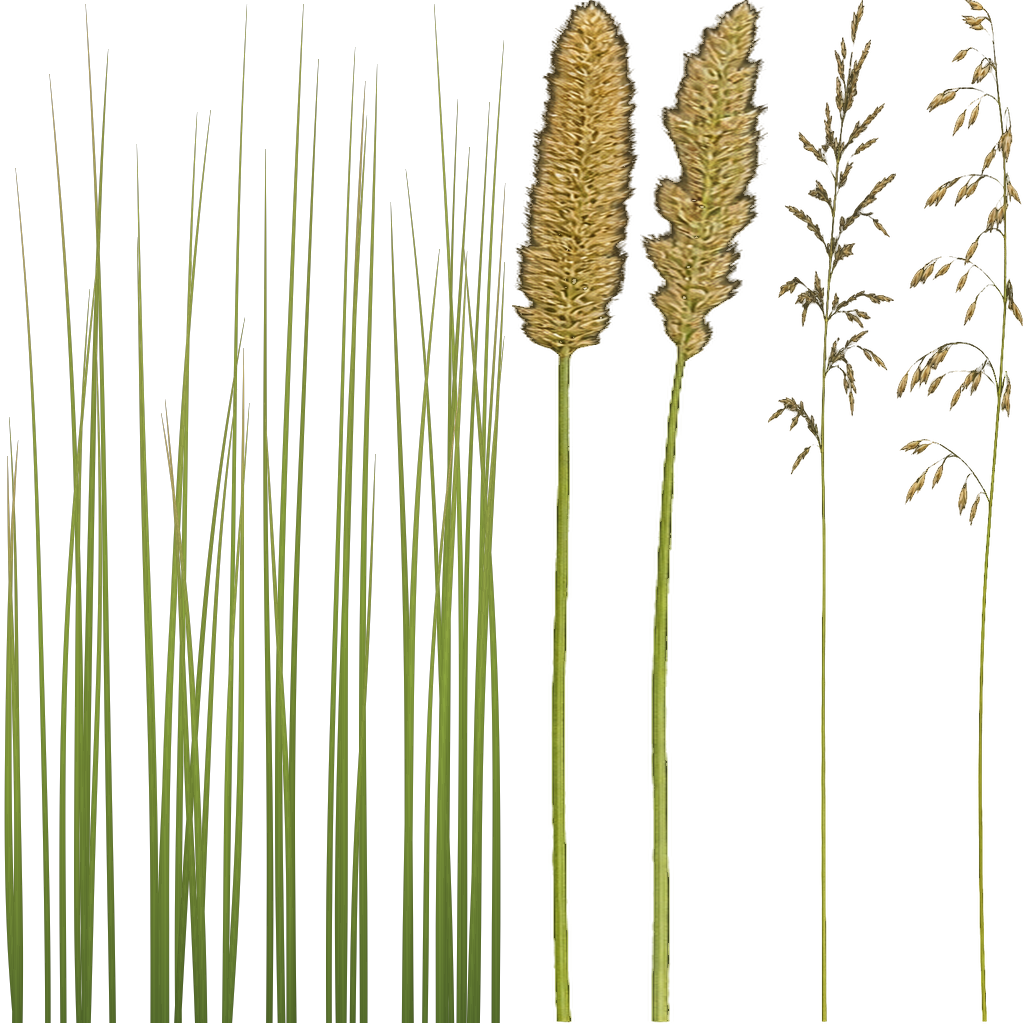
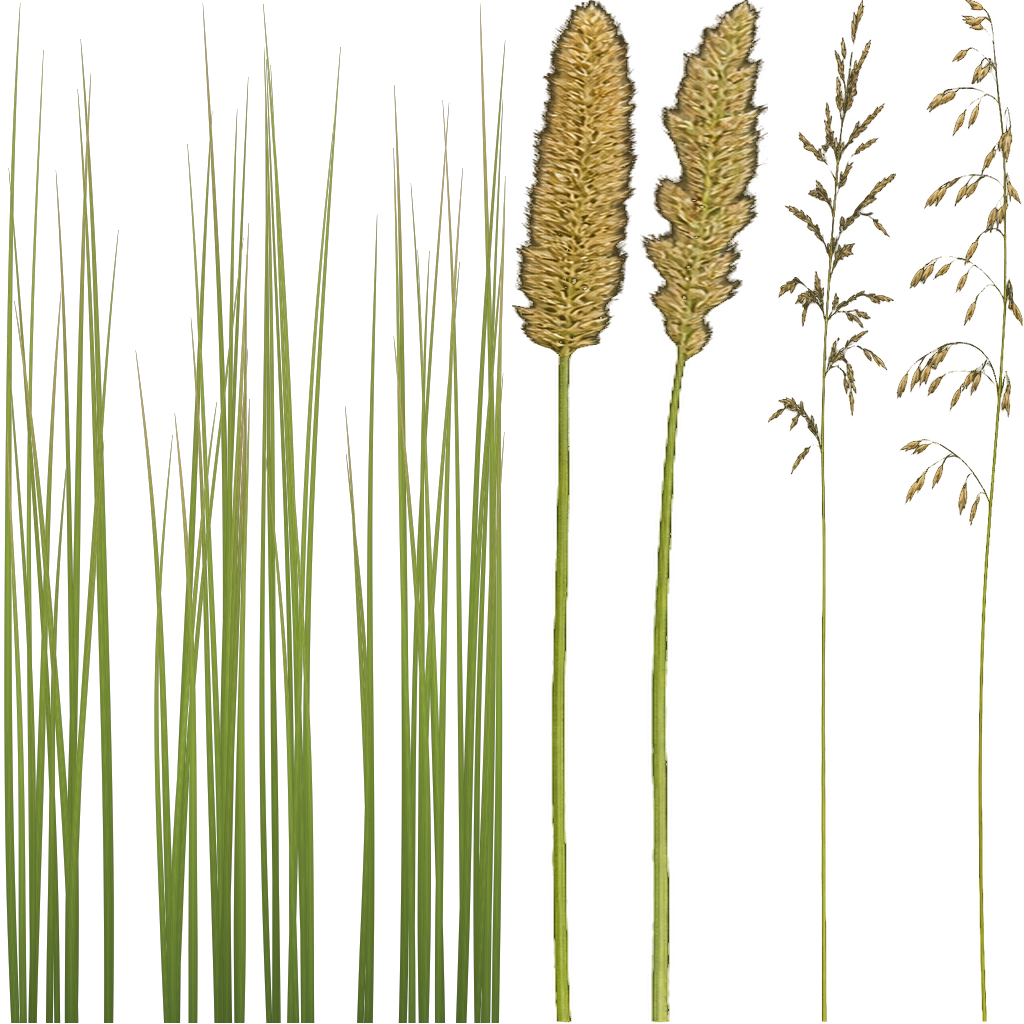
Grass look 08-10: thin field grass, real ground, soft canopy lighting, final renders
Atlas leaf cells as strips of 13-18 thin drooping blades (tools/grass_atlas.py),
700 cards/m2 (~11 000 blades/m2) with more short undergrowth. The ground under
the turf keeps its soil, thatch, pebble and twig albedo and normal map close up
(regenerated thatch with soil, damp hollows, moss, pebbles, twigs), occasional
worn dirt spots, a rotated second tile sample against tiling, and the canopy
colour from 4-25 m out. Far field green-gold: less dry stand-in, warmer far
tint, gentler fog anisotropy. Soft look: blade normals 70-80 % to the canopy,
far less per-blade contrast and colour jitter, low broad specular, soft
six-tap near grass shadows with a shade floor, contact shadows and SSAO on
grass toned down, more light through the blades. Canopy relief fades with
height_variation. High 31.9 / Medium 24.1 / Low 15.5 ms. Renders and log in
docs/pending/grass-look.md.

Changed region(s): [[0.0, 0.0312, 0.5, 1.0]]

diff --git a/crates/misty_editor/src/sample_meadow.rs b/crates/misty_editor/src/sample_meadow.rs
@@ -82,7 +82,7 @@ fn grass() -> details::DetailSettings {
             ..Default::default()
         },
         on_layer: Some(0),
-        // Cards per m², each a strip of 9–14 thin blades (~8 000 blades per m²).
+        // Cards per m², each a strip of 13–18 thin blades (~11 000 blades per m²).
         density: 700.0,
         draw_distance: 160.0,
         // Short turf (ankle height): tufts rise to ~0.3 m, dips sink to ~0.05 m.
@@ -90,16 +90,16 @@ fn grass() -> details::DetailSettings {
         // Cards ~4 cm across: every blade on them 2–3 mm wide.
         width: 0.04,
         // Warm yellow-green turf (the reference meadow), paler straw where it dries.
-        healthy_color: [0.56, 0.65, 0.22],
+        healthy_color: [0.53, 0.67, 0.21],
         dry_color: [0.76, 0.68, 0.4],
         wind_strength: 0.18,
         wind_speed: 0.9,
-        seed_heads: 0.05,
+        seed_heads: 0.03,
         seed_color: [0.8, 0.72, 0.5],
         clumping: 0.45,
         bend: 0.8,
         translucency: 0.6,
-        tip_dryness: 0.15,
+        tip_dryness: 0.28,
         lod_distance: 7.5,
         // Soft patches ~40 m across (sweeps of ~130 m): lush dark-green hollows with
         // taller, fuller tufts and paler, drier, shorter stretches; every tuft a little
@@ -108,7 +108,8 @@ fn grass() -> details::DetailSettings {
         lush_color: [0.24, 0.34, 0.1],
         lush_amount: 0.6,
         dry_amount: 0.6,
-        color_variation: 0.5,
+        // Variation comes from the broad patches; single blades differ little.
+        color_variation: 0.2,
         height_variation: 0.6,
         density_variation: 0.2,
         ground_tint: 1.0,
@@ -164,7 +165,7 @@ fn thatch() -> [RgbaImage; 3] {
         }
     }
     // Small pebbles (4–12 mm on the 2.2 m tile), domed, partly sunk in the soil.
-    for k in 0..900 {
+    for k in 0..1400 {
         let r = |salt: u32| noise::hash(k, salt as i32, 0x5eb1);
         let (cx, cy) = (r(1) * n as f32, r(2) * n as f32);
         let radius = 2.0 + 4.0 * r(3) * r(3);
@@ -191,7 +192,7 @@ fn thatch() -> [RgbaImage; 3] {
         }
     }
     // Strands, later ones on top: dead straw, olive half-dry blades, a few green ones.
-    let strands = 22000;
+    let strands = 10000;
     for k in 0..strands {
         let r = |salt: u32| noise::hash(k, salt as i32, 0x7a7c);
         let (x0, y0) = (r(1) * n as f32, r(2) * n as f32);
@@ -340,7 +341,7 @@ fn volume() -> PostProcessVolume {
     cs.active = true;
     cs.length = 0.12;
     cs.distance_fade = 16.0;
-    cs.opacity = 0.8;
+    cs.opacity = 0.3;
     cs.sample_count = 6;
     let c = &mut v.clouds;
     c.active = true;
@@ -357,7 +358,8 @@ fn volume() -> PostProcessVolume {
     f.attenuation_distance = 6000.0;
     f.base_height = 0.0;
     f.maximum_height = 150.0;
-    f.anisotropy = 0.5;
+    // Gentle forward haze: the field stays green-gold to the mountains against the sun.
+    f.anisotropy = 0.3;
     f.volumetric_distance = 250.0;
     v.sun_shafts.active = true;
     v.sun_shafts.intensity = 0.5;

diff --git a/crates/misty_engine/src/terrain/details.rs b/crates/misty_engine/src/terrain/details.rs
@@ -246,7 +246,7 @@ pub fn swathe(p: Vec2, scale: f32) -> f32 {
 /// `grass_worn` in grass_field.wgsl, which shows the soil there).
 pub fn worn(p: Vec2) -> f32 {
     let v = 0.7 * field_noise(p / 2.6 + 91.7) + 0.3 * field_noise(p / 0.9 + 17.3);
-    let t = ((v - 0.66) / 0.14).clamp(0.0, 1.0);
+    let t = ((v - 0.73) / 0.12).clamp(0.0, 1.0);
     t * t * (3.0 - 2.0 * t)
 }
 
@@ -375,7 +375,7 @@ pub fn scatter_level(d: &TerrainData, lo: Vec2, hi: Vec2, level: u32) -> Vec<Bla
                 // (a root pulled out of the rectangle stays put, so chunks still add up).
                 let (centre, id) = tuft(root, cell, seed ^ 0x7f4a);
                 // Undergrowth stays spread out and fills the ground between the tufts.
-                let under = r(17) < 0.62;
+                let under = r(17) < 0.68;
                 let pull = if under { 0.15 } else { 0.6 };
                 let pulled = centre + (root - centre) * (1.0 - pull * clumping);
                 let inside = pulled.cmpge(lo).all() && pulled.cmplt(hi).all();
@@ -394,8 +394,11 @@ pub fn scatter_level(d: &TerrainData, lo: Vec2, hi: Vec2, level: u32) -> Vec<Bla
                 let relief = canopy(p);
                 let field = noise::fbm(p.x, p.y, 28.0, 2, seed ^ 0x5d) * 0.5 + 0.5;
                 let tuft_scale = 1.0 + (id - 0.5) * 0.5 * clumping;
-                // Every blade its own height too, so the top line breaks up.
-                let mix = (0.4 * r(3) + 0.42 * relief + 0.18 * field).clamp(0.0, 1.0);
+                // Every blade its own height too, so the top line breaks up; the relief
+                // fades out with the height variation (none: one even height).
+                let rv = (hv / 0.6).min(1.0);
+                let mix = (0.4 * r(3) + rv * (0.42 * relief + 0.18 * field) + (1.0 - rv) * 0.3)
+                    .clamp(0.0, 1.0);
                 let outlier = if r(15) < 0.05 { 1.3 + 0.3 * r(16) } else { 1.0 };
                 let mut tall =
                     (s.height[0] + (s.height[1] - s.height[0]) * mix) * tuft_scale * outlier;
@@ -415,7 +418,7 @@ pub fn scatter_level(d: &TerrainData, lo: Vec2, hi: Vec2, level: u32) -> Vec<Bla
                 let seed_head = r(9) < s.seed_heads.clamp(0.0, 1.0) * (0.4 + 1.2 * relief);
                 // Undergrowth is broader, low and arches over: it carpets the base of the
                 // canopy so no ground shows between the thin stems above it.
-                let mut width = s.width * (0.7 + 0.6 * r(5)) * if under { 1.4 } else { 1.0 };
+                let mut width = s.width * (0.7 + 0.6 * r(5)) * if under { 1.5 } else { 1.0 };
                 if seed_head {
                     tall *= 1.2 + 0.4 * r(10);
                     width = s.width.min(0.02) * 0.3;

diff --git a/tools/grass_atlas.py b/tools/grass_atlas.py
@@ -22,7 +22,7 @@ ATLAS = pathlib.Path(__file__).resolve().parents[1] / (
 )
 CELL_W, H = 128, 1024
 # Blades per leaf cell.
-BLADES = [10, 12, 9, 14]
+BLADES = [14, 16, 13, 18]
 
 
 def srgb(c):

diff --git a/docs/pending/grass-look.md b/docs/pending/grass-look.md
@@ -145,3 +145,82 @@ shadows low quality and not sharp, no contact shadows on grass.
   - Timing in this run was not usable: another agent's GPU test shared the GPU ("no grass"
     13.5 ms instead of 5.2). Before the leaf variation (look07e, quiet GPU): High 32.1 ms,
     Medium 24.3, Low 15.6.
+- look08 (user: "looks like jungle grass; field grasses are thin and a little curvy"; then
+  "the ground has no details or normal maps, almost flat green, no dirt"):
+  - **Thin field-grass atlas**: the four leaf cells (broad photographed leaves) are
+    regenerated by `tools/grass_atlas.py` as strips of 13–18 thin blades each: 6–10 px of
+    128 at the base (2–3 mm on a ~4 cm card), tapering to a fine point, each with its own
+    length (55–100 %), lean and a droop growing towards the tip (`x ∝ t^2.2`), roots spread
+    across the card (no fan from one point); a few with straw tips. The seed-head cells stay
+    photographed. `CELL_AVG` / `CELL_ASPECT` updated; a per-blade twist along the card
+    (±0.45 rad at the tip) in `grass_blade`; procedural veins finer. MeadowDemo: cards 4 cm
+    wide at 700 / m² (~11 000 visible blades / m², was 1 100 straps), undergrowth 62 % of
+    the cards (1.4× wide, lower), `MAX_WIDEN` 8 → 3 and look-down widening 1.75 → 1.3×
+    (wide cards made the frame fill-bound: 50 ms at 800 / m² × 5 cm).
+  - **Real ground**: close up the ground under the grass keeps its own albedo and normal
+    map (only 25 % towards the turf colour, darker and damper under it) and takes the
+    canopy colour only far away where it stands in for the turf; the soil relief is no
+    longer flattened close up. Worn spots (`grass_worn` / `details::worn`, 1–2 m bare-dirt
+    patches) keep a third of the blades and show bare soil. Thatch texture regenerated:
+    dark crumbly soil with damp hollows and moss, 1 400 pebbles (4–12 mm, domed), twigs,
+    10 000 litter strands (was 36 000, which buried the soil), normal strength 6 → 9.
+    Terrain layers blend a second copy of each tile, rotated 0.9 rad and 0.87× the scale,
+    by a noise of a few tiles (no visible repeat grid). Before / after crop:
+    `grasslook_ground_before_after.png`.
+  - Canopy floor a little brighter again (lit 0.8, occlusion 0.6).
+  - The canopy relief now fades with `height_variation` (below 0.6), so "uniform" settings
+    give one even height again (`grass_varies_across_the_field`).
+
+- look09–10 (lead: pale beige far field, pale blotches, dark olive near, sparse; user:
+  "the reference looks softer, everything ... ours looks so sharp with too many details"):
+  - Far field: the ground stand-in and far blades less dry (stand-in dry mix 0.55 → 0.35,
+    far blades 0.3 → 0.2 + 0.4 z), a warmer far tint (1.16, 0.95, 0.72 over 6–50 m), and the
+    scene fog's anisotropy 0.5 → 0.3 (the pale beige was mostly forward-scattered haze
+    against the low sun; the midday shot stayed green).
+  - Mottling: the ground takes the canopy colour from 4–25 m (was the 24–160 m "far"
+    ramp), worn spots rarer (`smoothstep(0.73, 0.85)`) and only near; close up the ground
+    is 45 % towards the turf colour.
+  - Near colour: root-to-tip gradient lifted (0.9 → 1.1), tip dryness 0.15 → 0.28 (golden
+    tips), healthy (0.53, 0.67, 0.21); undergrowth 68 % of the cards at 1.5× width.
+  - **Softness**: blade normals lean 70–80 % to the canopy normal (was 45–60 %), the
+    thickness-profile normal detail and the midrib / vein / speckle contrast cut by ~60 %,
+    photo detail 0.3 → 0.6 towards flat, specular smoothness 0.18 → 0.08, colour variation
+    0.5 → 0.2 (variation from the broad patches), seed heads 5 → 3 %; grass shadows soft
+    and never fully dark in the canopy (near map: six taps on 1.5 / 3 texel rings, shade
+    floor 0.3), contact shadows on grass at 30 % and the scene's contact shadow opacity
+    0.8 → 0.3, SSAO on grass at half strength, canopy floor lit 0.85 / occlusion 0.75,
+    more light through the blades; alpha-to-coverage softer from mid distance.
+
+## Final (look10 = `grasslook_final_*`)
+
+Renders: `grasslook_final_close.png`, `grasslook_final_wide.png` (golden: the scene's own
+light), `grasslook_final_vs_reference.png` (ours | reference, same size), midday variants
+and ground masks alongside; ground before / after: `grasslook_ground_before_after.png`.
+
+| | look00 (main) | final |
+|---|---|---|
+| High / Medium / Low (ms, RTX 4060, 1920×1080) | 34.5 / 30.0 / 20.7 | 31.9 / 24.1 / 15.5 |
+| triangles High | — | 37.0 M |
+| ground visible wide / close (matches bare) | 2.0 % / 0.9 % | 2.6 % / 1.3 % |
+| ground visible wide / close (tint swap) | — | 40 % / 20 % |
+| cards / visible blades per m² (High) | 600 cards | 700 cards, ~11 000 blades |
+
+Quality ▸ Grass Density: Low 0.5 (350 cards, ~5 500 blades / m²), Medium 0.75 (525,
+~8 000), High 1.0. The "no grass" frame measured 6.1 ms in the final run (5.2 on a quiet
+GPU), so the grass itself is ~26 ms on High.
+
+Colour of the grass band, wide golden vs the reference: hue 53.6 ± 5.5 vs 49.2 ± 4.3, sat
+0.59 ± 0.11 vs 0.59 ± 0.08, val 0.52 ± 0.15 vs 0.46 ± 0.12, patchiness (24 px blocks)
+0.120 vs 0.087. Bands near → far: hue 51 / 51 / 53 / 57 / 55 (reference 52 / 51 / 50 / 47
+/ 43), value 0.42–0.48 near (reference 0.36–0.44), 0.50–0.57 middle (0.43–0.54).
+
+The ground-visibility target (< 0.3 %) is not met: the user asked for a real, detailed
+ground between the blades instead, so the gaps show soil, thatch, pebbles and occasional
+worn spots on purpose and "matches bare" counts them.
+
+Left: the middle distance (20–40 m) is still a little greener than the reference (hue
+57 vs 47); the field beyond the 160 m grass draw distance is a flat, hazy stand-in in the
+sun's direction (the reference keeps texture to the horizon); midday is greener (63) than
+the reference's light; no trees. `foliage_lighting_demo_matches_its_generator` (editor)
+fails on main's FoliageLightingDemo data already (density 600 on disk vs 1500 in the
+generator); not touched here.
